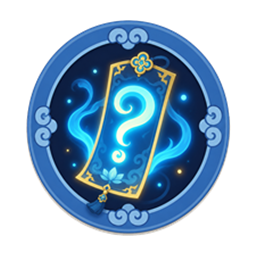
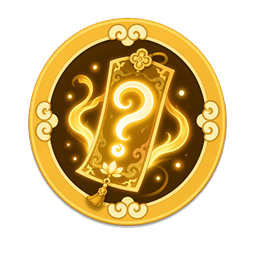
전투화면 UI 적용 v1

diff --git a/style.css b/style.css
@@ -146,19 +146,53 @@ html,body{height:100%; background:#0c1422; overflow:hidden;
 .player-info-card{position:absolute; left:0; top:0; width:24cqw; min-width:30cqh; max-width:calc(50% - 11cqw);
   height:100%; align-items:center; gap:1.15cqw;
   padding:.8cqh 1cqw;}
+.player-info-card{
+  background:transparent url("assets/ui/player_info_panel_wide.png") center/100% 100% no-repeat;
+  border:0;
+  box-shadow:none;
+  backdrop-filter:none;
+}
 .player-info-body{min-width:0; flex:1; display:flex; flex-direction:column; justify-content:center; gap:.42cqh;}
 .portrait{width:11cqh; height:7cqh; border-radius:1.5cqh; display:grid; place-items:center;
   font-size:4.2cqh; background:linear-gradient(160deg,#fff,#dcecff);
   border:0.25cqh solid var(--c-gold); box-shadow:0 0 1cqh rgba(231,181,74,.6);}
+.player-info-card .portrait{
+  background:transparent;
+  border:0;
+  box-shadow:none;
+  width:8.4cqh;
+  height:8.4cqh;
+  border-radius:50%;
+  overflow:hidden;
+}
+.player-info-card .portrait img{
+  width:100%;
+  height:100%;
+  object-fit:cover;
+  display:block;
+}
 .who b{font-size:2.3cqh;} .who span{display:none;}
-.hud-hp-row{display:flex; align-items:center; justify-content:space-between; gap:.8cqw;
+.hud-hp-row{display:flex; align-items:center; gap:.8cqw;
   font-size:1.55cqh; font-weight:800; color:var(--c-ink);}
 .hud-hp-label{color:var(--c-red-deep);}
 .hud-hpbar{position:relative; width:100%; height:1.45cqh; border-radius:.8cqh; overflow:hidden;
   background:rgba(122,42,42,.62); border:.12cqh solid rgba(0,0,0,.14);}
+.player-info-card .hud-hpbar{
+  width:calc(100% - 2cqw);
+  background:rgba(95,95,95,.58);
+  border:0;
+  box-shadow:none;
+}
 #hudHpFill{position:absolute; left:0; top:0; bottom:0; width:100%;
   background:linear-gradient(180deg,#ff8079,var(--c-hp)); transition:width .35s ease;}
+.player-info-card #hudHpFill{border-radius:.8cqh;}
+#hudHp{position:absolute; inset:0; z-index:1; display:flex; align-items:center; justify-content:center;
+  color:#fff; font-size:1.15cqh; font-weight:900; line-height:1; text-shadow:0 .12cqh .25cqh rgba(80,20,20,.65);}
 .hud-resource-row{display:flex; align-items:center; gap:.65cqw; min-width:0; padding-top:.1cqh;}
+.player-info-card .hud-resource-row{
+  transform:translateX(2cqw);
+  width:calc(100% - 2cqw);
+}
 .hud-resource{display:inline-flex; align-items:center; gap:.22cqw; min-width:0;
   font-size:1.45cqh; font-weight:900; color:var(--c-ink);}
 .hud-resource-icon{font-size:1.75cqh; line-height:1;}
@@ -186,10 +220,10 @@ html,body{height:100%; background:#0c1422; overflow:hidden;
 .sr-only{position:absolute; width:1px; height:1px; padding:0; margin:-1px; overflow:hidden;
   clip:rect(0,0,0,0); white-space:nowrap; border:0;}
 .progress-center-hud{position:absolute; left:50%; top:50%; transform:translate(-50%,-50%);
-  width:clamp(18cqw, 21cqw, calc(100% - 56cqw)); height:100%;
+  width:clamp(28cqw, 32cqw, calc(100% - 56cqw)); height:100%;
   display:flex; align-items:center; justify-content:center; gap:.8cqw;
-  padding:.8cqh 1.5cqw; background:var(--c-panel); border:0.2cqh solid var(--c-panel-line);
-  border-radius:var(--r); backdrop-filter:blur(4px); box-shadow:0 .4cqh 1.2cqh rgba(60,90,140,.15);
+  padding:.8cqh 4.2cqw; background:transparent url("assets/ui/stage_info_panel.png") center/100% 100% no-repeat; border:0;
+  border-radius:0; backdrop-filter:none; box-shadow:none;
   font-size:2.05cqh; font-weight:900; color:var(--c-ink);}
 .progress-center-hud,.top-right-menu,.player-info-card{z-index:1;}
 .progress-region,.progress-floor,.progress-turn{display:inline-flex; align-items:center; white-space:nowrap;}
@@ -223,19 +257,17 @@ html,body{height:100%; background:#0c1422; overflow:hidden;
   display:grid; grid-template-columns:repeat(2, 7cqh); grid-auto-rows:max-content;
   align-items:end; justify-content:end; gap:1.2cqh 1cqw;}
 /* ?먮꼫吏 ?ㅻ툕 */
-#energy.vertical-energy-panel{position:relative; left:auto; bottom:auto; width:8.2cqh; min-height:54cqh; border-radius:1.2cqh; flex:none;
-  display:flex; flex-direction:column; align-items:center; justify-content:center; gap:.55cqh; cursor:default;
-  background:var(--c-panel); border:0.2cqh solid var(--c-panel-line);
-  box-shadow:0 .5cqh 1.4cqh rgba(60,90,140,.15); padding:1cqh .6cqh; backdrop-filter:blur(4px);}
+#energy.vertical-energy-panel{position:relative; left:auto; bottom:auto; width:13.6cqh; min-height:48cqh; border-radius:0; flex:none;
+  display:flex; flex-direction:column; align-items:center; justify-content:center; gap:.35cqh; cursor:default;
+  background:transparent url("assets/ui/energy/energy_panel.png") center/100% 100% no-repeat; border:0;
+  box-shadow:none; padding:4.9cqh 3cqh 5.3cqh; backdrop-filter:none;}
 #energy .energy-orbs{display:flex; flex-direction:column; align-items:center; gap:.45cqh;}
-#energy .energy-slot{width:3.85cqh; height:3.85cqh; border-radius:50%; display:block;
-  border:0.28cqh solid rgba(207,234,255,.72); background:rgba(55,75,100,.26);
-  box-shadow:inset 0 .18cqh .6cqh rgba(30,45,65,.18);}
-#energy .energy-slot.active{border-color:#cfeaff; background:radial-gradient(circle at 35% 30%, #d7f2ff, #4da8f0 62%, #1f5fa5);
-  box-shadow:0 0 1.15cqh rgba(80,170,255,.68), inset 0 0 .9cqh rgba(255,255,255,.45);}
-#energy .energy-slot.used{background:linear-gradient(180deg,#d6dee8,#8796a8); border-color:#eef3fa;
-  box-shadow:inset 0 .2cqh .6cqh rgba(30,45,65,.22); opacity:.58;}
-#energy .energy-slot.empty{background:rgba(50,65,85,.2); border-color:rgba(150,180,210,.42); opacity:.46;}
+#energy .energy-slot{width:4.2cqh; height:4.2cqh; border-radius:0; display:block;
+  border:0; background:url("assets/ui/energy/energy_inactive.png") center/contain no-repeat;
+  box-shadow:none;}
+#energy .energy-slot.active{background-image:url("assets/ui/energy/energy_active.png");}
+#energy .energy-slot.used{background-image:url("assets/ui/energy/energy_inactive.png"); opacity:.72;}
+#energy .energy-slot.empty{background-image:url("assets/ui/energy/energy_inactive.png"); opacity:.46;}
 #energy .energy-orb{width:4.5cqh; height:4.5cqh; border-radius:50%; display:block;
   border:0.35cqh solid #cfeaff; background:radial-gradient(circle at 35% 30%, #bfe6ff, #3f8fe0 62%, #1f5fa5);
   box-shadow:0 0 1.2cqh rgba(80,170,255,.62), inset 0 0 .9cqh rgba(255,255,255,.45);}

diff --git a/index.html b/index.html
@@ -65,8 +65,9 @@
           <div class="portrait" id="hudPortrait">👼</div>
           <div class="player-info-body">
             <div class="who"><b id="hudName">빛솔이</b><span id="hudTitle">신입 액소시스트</span></div>
-            <div class="hud-hp-row"><span class="hud-hp-label">정신력</span><span id="hudHp">60/60</span></div>
-            <div class="hud-hpbar"><div id="hudHpFill"></div></div>
+            <div class="hud-hp-row">
+              <div class="hud-hpbar"><div id="hudHpFill"></div><span id="hudHp">60/60</span></div>
+            </div>
             <div class="hud-resource-row" aria-label="보유 자원">
               <span class="hud-resource"><span class="hud-resource-icon">🏺</span><span id="hudRelicCount">0</span></span>
               <span class="hud-resource"><span class="hud-resource-icon">🧪</span><span id="hudPotionCount">0</span></span>
@@ -99,7 +100,6 @@
     <div class="left-side-hud">
       <div class="left-side-main">
         <div id="energy" class="vertical-energy-panel">
-          <span class="lbl">신통력</span>
           <div class="energy-orbs" aria-hidden="true">
             <span class="energy-slot active"></span>
             <span class="energy-slot active"></span>

diff --git a/script.js b/script.js
@@ -2390,7 +2390,7 @@ function combatantEl(o){
   const statsRenderObj = o.hideHud ? o : { ...o, weak:0, mark:0, status:{} };
   const infoHtml = o.hideHud
     ? ""
-    : '<div class="combatant-info"><div class="name">'+o.name+'</div>'+LIFE.renderCombatantStats(statsRenderObj, { reserveBlockSpace:false })+statusHtml+'</div>';
+    : '<div class="combatant-info">'+LIFE.renderCombatantStats(statsRenderObj, { reserveBlockSpace:false })+statusHtml+'</div>';
   el.innerHTML = intentHtml + avatarHtml + infoHtml + '<div class="hit"></div>';
   return el;
 }